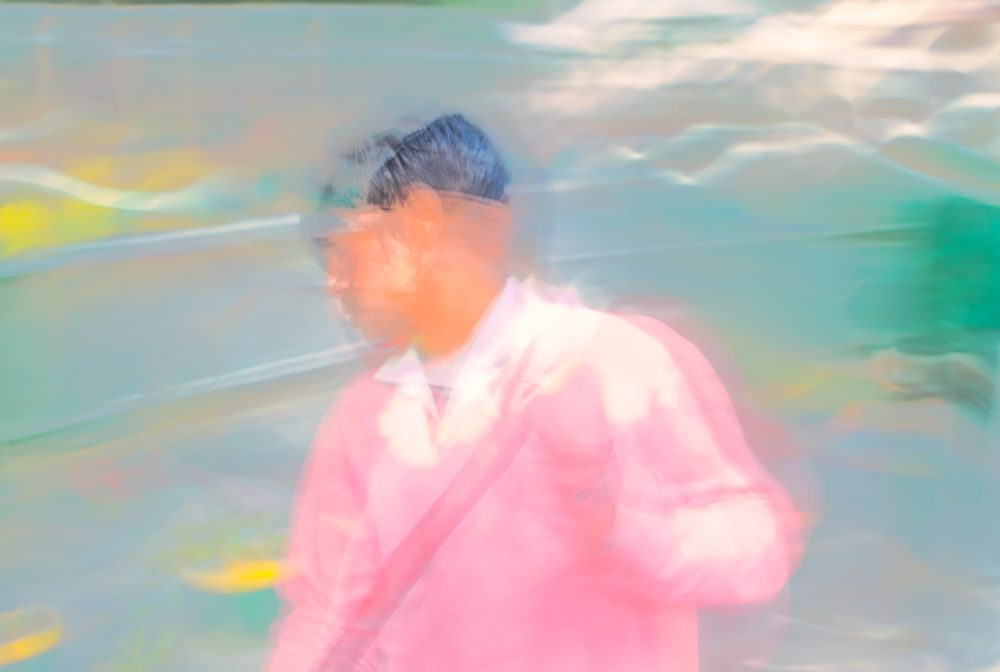
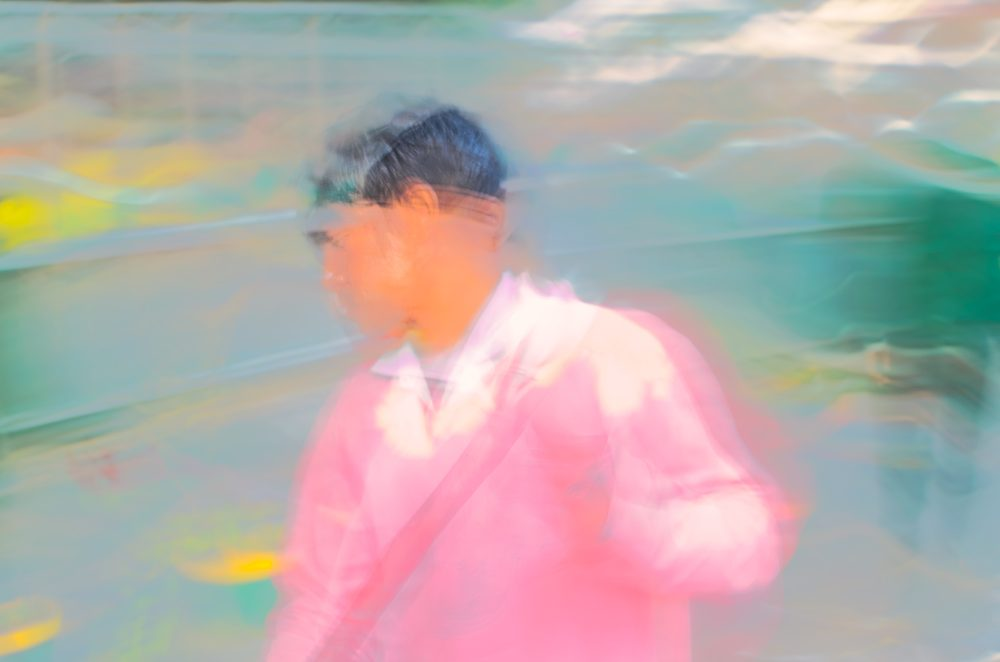
Nr. 8 durch neue Fassung ersetzt

diff --git a/en/index.html b/en/index.html
@@ -74,8 +74,8 @@
       <img src="../bilder/werk-07-1600.jpg?v=e518cc33" srcset="../bilder/werk-07-1000.jpg?v=e518cc33 1000w, ../bilder/werk-07-1600.jpg?v=e518cc33 1600w, ../bilder/werk-07-2400.jpg?v=e518cc33 2400w" sizes="(min-width: 900px) 70vw, 100vw" width="1600" height="1128" alt="Photograph No. 7, 2024" loading="lazy" decoding="async">
       <figcaption><span class="bu-nr">No. 7</span><span class="bu-meta">2024</span></figcaption>
     </figure>
-    <figure class="werk werk--mitte" id="werk-8" style="--ar:1.4881">
-      <img src="../bilder/werk-08-1600.jpg?v=3fc90657" srcset="../bilder/werk-08-1000.jpg?v=3fc90657 1000w, ../bilder/werk-08-1600.jpg?v=3fc90657 1600w, ../bilder/werk-08-2400.jpg?v=3fc90657 2400w" sizes="(min-width: 900px) 70vw, 100vw" width="1600" height="1075" alt="Photograph No. 8, 2024" loading="lazy" decoding="async">
+    <figure class="werk werk--mitte" id="werk-8" style="--ar:1.5106">
+      <img src="../bilder/werk-08-1600.jpg?v=46ea5eb6" srcset="../bilder/werk-08-1000.jpg?v=46ea5eb6 1000w, ../bilder/werk-08-1600.jpg?v=46ea5eb6 1600w, ../bilder/werk-08-2400.jpg?v=46ea5eb6 2400w" sizes="(min-width: 900px) 70vw, 100vw" width="1600" height="1059" alt="Photograph No. 8, 2024" loading="lazy" decoding="async">
       <figcaption><span class="bu-nr">No. 8</span><span class="bu-meta">2024</span></figcaption>
     </figure>
     <figure class="werk werk--mitte" id="werk-9" style="--ar:1.5106">

diff --git a/index.html b/index.html
@@ -74,8 +74,8 @@
       <img src="bilder/werk-07-1600.jpg?v=e518cc33" srcset="bilder/werk-07-1000.jpg?v=e518cc33 1000w, bilder/werk-07-1600.jpg?v=e518cc33 1600w, bilder/werk-07-2400.jpg?v=e518cc33 2400w" sizes="(min-width: 900px) 70vw, 100vw" width="1600" height="1128" alt="Fotografie Nr. 7, 2024" loading="lazy" decoding="async">
       <figcaption><span class="bu-nr">Nr. 7</span><span class="bu-meta">2024</span></figcaption>
     </figure>
-    <figure class="werk werk--mitte" id="werk-8" style="--ar:1.4881">
-      <img src="bilder/werk-08-1600.jpg?v=3fc90657" srcset="bilder/werk-08-1000.jpg?v=3fc90657 1000w, bilder/werk-08-1600.jpg?v=3fc90657 1600w, bilder/werk-08-2400.jpg?v=3fc90657 2400w" sizes="(min-width: 900px) 70vw, 100vw" width="1600" height="1075" alt="Fotografie Nr. 8, 2024" loading="lazy" decoding="async">
+    <figure class="werk werk--mitte" id="werk-8" style="--ar:1.5106">
+      <img src="bilder/werk-08-1600.jpg?v=46ea5eb6" srcset="bilder/werk-08-1000.jpg?v=46ea5eb6 1000w, bilder/werk-08-1600.jpg?v=46ea5eb6 1600w, bilder/werk-08-2400.jpg?v=46ea5eb6 2400w" sizes="(min-width: 900px) 70vw, 100vw" width="1600" height="1059" alt="Fotografie Nr. 8, 2024" loading="lazy" decoding="async">
       <figcaption><span class="bu-nr">Nr. 8</span><span class="bu-meta">2024</span></figcaption>
     </figure>
     <figure class="werk werk--mitte" id="werk-9" style="--ar:1.5106">

diff --git a/en/overview.html b/en/overview.html
@@ -94,10 +94,10 @@
         </a>
       </li>
       <li>
-        <a href="../bilder/werk-08-2400.jpg?v=3fc90657" data-gross="../bilder/werk-08-2400.jpg?v=3fc90657"
-           data-srcset="../bilder/werk-08-1600.jpg?v=3fc90657 1600w, ../bilder/werk-08-2400.jpg?v=3fc90657 2400w"
+        <a href="../bilder/werk-08-2400.jpg?v=46ea5eb6" data-gross="../bilder/werk-08-2400.jpg?v=46ea5eb6"
+           data-srcset="../bilder/werk-08-1600.jpg?v=46ea5eb6 1600w, ../bilder/werk-08-2400.jpg?v=46ea5eb6 2400w"
            data-unterschrift="No. 8 · 2024">
-          <img src="../bilder/werk-08-1600.jpg?v=3fc90657" srcset="../bilder/werk-08-1000.jpg?v=3fc90657 1000w, ../bilder/werk-08-1600.jpg?v=3fc90657 1600w, ../bilder/werk-08-2400.jpg?v=3fc90657 2400w" sizes="(min-width: 1100px) 22vw, (min-width: 700px) 30vw, 45vw" width="1600" height="1075" alt="Photograph No. 8, 2024" loading="eager" decoding="async" fetchpriority="high">
+          <img src="../bilder/werk-08-1600.jpg?v=46ea5eb6" srcset="../bilder/werk-08-1000.jpg?v=46ea5eb6 1000w, ../bilder/werk-08-1600.jpg?v=46ea5eb6 1600w, ../bilder/werk-08-2400.jpg?v=46ea5eb6 2400w" sizes="(min-width: 1100px) 22vw, (min-width: 700px) 30vw, 45vw" width="1600" height="1059" alt="Photograph No. 8, 2024" loading="eager" decoding="async" fetchpriority="high">
           <span class="bu-nr">No. 8</span>
         </a>
       </li>

diff --git a/uebersicht.html b/uebersicht.html
@@ -94,10 +94,10 @@
         </a>
       </li>
       <li>
-        <a href="bilder/werk-08-2400.jpg?v=3fc90657" data-gross="bilder/werk-08-2400.jpg?v=3fc90657"
-           data-srcset="bilder/werk-08-1600.jpg?v=3fc90657 1600w, bilder/werk-08-2400.jpg?v=3fc90657 2400w"
+        <a href="bilder/werk-08-2400.jpg?v=46ea5eb6" data-gross="bilder/werk-08-2400.jpg?v=46ea5eb6"
+           data-srcset="bilder/werk-08-1600.jpg?v=46ea5eb6 1600w, bilder/werk-08-2400.jpg?v=46ea5eb6 2400w"
            data-unterschrift="Nr. 8 · 2024">
-          <img src="bilder/werk-08-1600.jpg?v=3fc90657" srcset="bilder/werk-08-1000.jpg?v=3fc90657 1000w, bilder/werk-08-1600.jpg?v=3fc90657 1600w, bilder/werk-08-2400.jpg?v=3fc90657 2400w" sizes="(min-width: 1100px) 22vw, (min-width: 700px) 30vw, 45vw" width="1600" height="1075" alt="Fotografie Nr. 8, 2024" loading="eager" decoding="async" fetchpriority="high">
+          <img src="bilder/werk-08-1600.jpg?v=46ea5eb6" srcset="bilder/werk-08-1000.jpg?v=46ea5eb6 1000w, bilder/werk-08-1600.jpg?v=46ea5eb6 1600w, bilder/werk-08-2400.jpg?v=46ea5eb6 2400w" sizes="(min-width: 1100px) 22vw, (min-width: 700px) 30vw, 45vw" width="1600" height="1059" alt="Fotografie Nr. 8, 2024" loading="eager" decoding="async" fetchpriority="high">
           <span class="bu-nr">Nr. 8</span>
         </a>
       </li>
